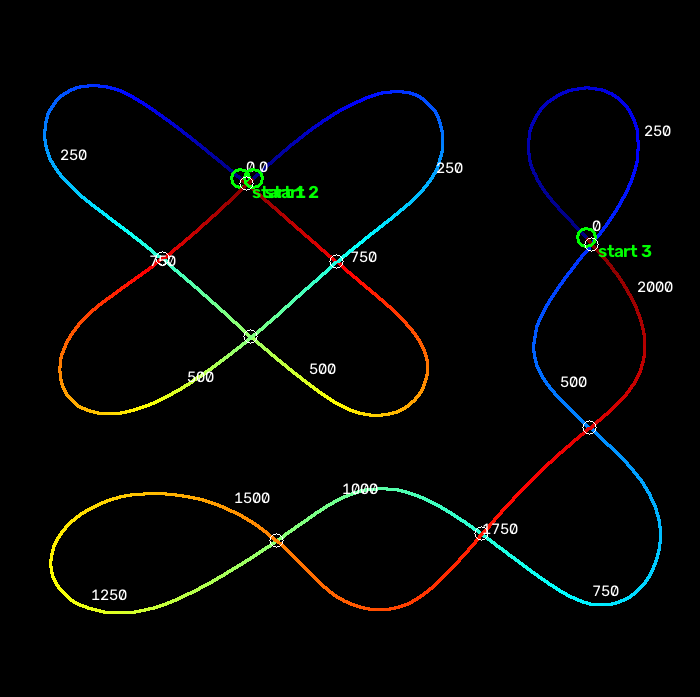
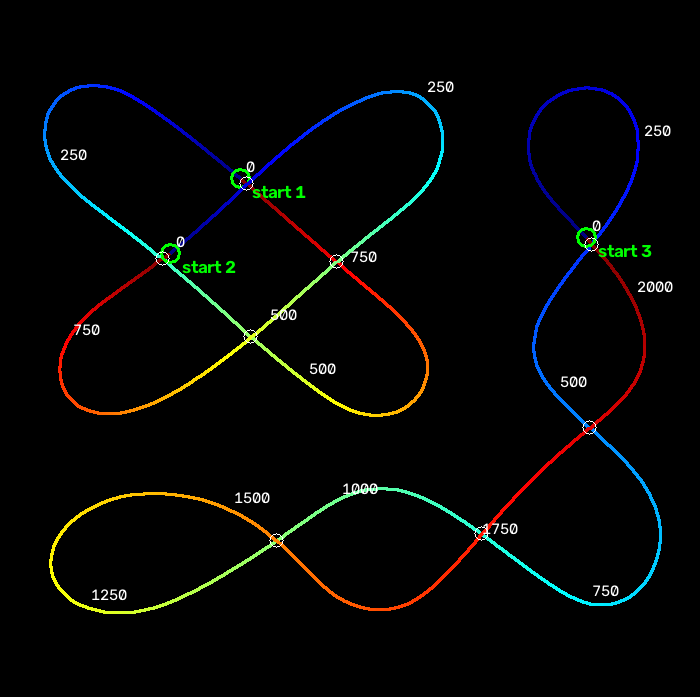
Animnations

diff --git a/src/animate_path.py b/src/animate_path.py
@@ -1,0 +1,112 @@
+import os
+import sys
+import json
+import numpy as np
+import matplotlib
+matplotlib.use("Agg")                                       # NEW 31: draw without a window, we save a GIF
+import matplotlib.pyplot as plt                             # NEW 31
+from matplotlib.animation import FuncAnimation, PillowWriter   # NEW 32: FuncAnimation = "call update once per frame"
+from matplotlib.patches import Circle                       # NEW 33: round shapes for dots and start marker
+
+RES = "results"                                             # NEW 34: same folder as the other scripts
+
+
+def load_path_data(name):                                   # NEW 35
+    """Read the data card made by trace_path.py (for example results/path_k01.json)."""
+    with open(os.path.join(RES, "path_" + name + ".json")) as f:   # NEW 35
+        return json.load(f)                                 # NEW 35
+
+
+def pick_label_spot(sx, sy, tw, th, all_pts, dots, w, h, enough=12):   # NEW 52
+    """Try 24 directions around a start ring, close first, then farther away.
+    Keep a spot where the label box is at least `enough` px from every line and dot. If none, use the best one found."""
+    best = None                                             # NEW 52
+    for reach in (34, 48, 64):                              # NEW 52: close to the ring first, then a bit farther
+        for k in range(24):                                 # NEW 52: 315 (up-right) first, then every 15 degrees round
+            deg = (315 + 15 * k) % 360                      # NEW 52
+            c, s_ = np.cos(np.radians(deg)), np.sin(np.radians(deg))   # NEW 52
+            ax_, ay_ = sx + reach * c, sy + reach * s_      # NEW 52: where the label touches the ring side
+            ha = "right" if c < -0.3 else ("left" if c > 0.3 else "center")   # NEW 52
+            va = "bottom" if s_ < -0.3 else ("top" if s_ > 0.3 else "center")  # NEW 52: y goes DOWN, so "bottom" = text above the point
+            x0 = ax_ - tw if ha == "right" else (ax_ if ha == "left" else ax_ - tw / 2)   # NEW 52: the label box
+            x1 = x0 + tw                                    # NEW 52
+            y0 = ay_ - th if va == "bottom" else (ay_ if va == "top" else ay_ - th / 2)   # NEW 52
+            y1 = y0 + th                                    # NEW 52
+            if x0 < 0 or y0 < 0 or x1 > w or y1 > h:        # NEW 52: box would leave the picture
+                continue                                    # NEW 52
+            dx = np.maximum(np.maximum(x0 - all_pts[:, 0], 0), all_pts[:, 0] - x1)   # NEW 53: distance from every line point to the box
+            dy = np.maximum(np.maximum(y0 - all_pts[:, 1], 0), all_pts[:, 1] - y1)   # NEW 53
+            gap = float(np.hypot(dx, dy).min())             # NEW 53: closest line point
+            for (x, y, r) in dots:                          # NEW 53: dots count too (real size is r - 8)
+                ddx = max(x0 - x, 0, x - x1)                # NEW 53
+                ddy = max(y0 - y, 0, y - y1)                # NEW 53
+                gap = min(gap, float(np.hypot(ddx, ddy)) - (r - 8))   # NEW 53
+            if best is None or gap > best[0]:               # NEW 54: strictly better wins, so ties keep the earlier choice
+                best = (gap, ax_, ay_, ha, va)              # NEW 54
+        if best is not None and best[0] >= enough:          # NEW 54: good enough at this distance, stop here
+            return best                                     # NEW 54
+    if best is None:                                        # NEW 54: nothing fitted at all, use up-right
+        return (0.0, sx + 24, sy - 24, "left", "bottom")    # NEW 54
+    return best                                             # NEW 54
+
+
+def make_animation(data, speed=20, hold=15, verbose=False):   # NEW 36, NEW 55: verbose=True prints the label gaps
+    """speed = points drawn per frame (bigger = faster). hold = frames to pause at the start and the end."""
+    w, h = data["width"], data["height"]                    # NEW 36: picture size
+    strands = [np.array(s) for s in data["strands"]]        # NEW 36: each strand = array of (x, y) points
+
+    fig, ax = plt.subplots(figsize=(6, 6 * h / w), dpi=70)  # NEW 37: empty drawing sheet
+    fig.subplots_adjust(left=0, right=1, top=1, bottom=0)   # NEW 37: no empty border
+    ax.set_xlim(0, w)                                       # NEW 37
+    ax.set_ylim(h, 0)                                       # NEW 37: y goes DOWN in a picture, so flip it
+    ax.set_aspect("equal")                                  # NEW 37: circles stay round
+    ax.axis("off")                                          # NEW 37: no axes, like a clean paper
+    all_pts = np.vstack(strands)                            # NEW 56: every line point, so labels can keep away from them
+    unit = w / (fig.get_figwidth() * fig.dpi)               # NEW 56: picture pixels per screen pixel
+    label_size = 14                                         # NEW 56: font size of the labels
+
+    for x, y, r in data["dots"]:                            # NEW 38: dots are ALWAYS there, from frame 1
+        ax.add_patch(Circle((x, y), r - 8, color="black"))  # NEW 38: r - 8 = the real dot size (r had +8 for the red ring)
+
+    lines = [ax.plot([], [], color="royalblue", lw=2.5, solid_capstyle="round")[0] for _ in strands]   # NEW 39: one empty line per strand
+    starts = []                                             # NEW 40
+    for i, st in enumerate(strands):                        # NEW 40: one green start marker per strand, hidden for now
+        ring = Circle((st[0][0], st[0][1]), 10, fill=False, ec="green", lw=2.5, visible=False)   # NEW 40
+        ax.add_patch(ring)                                  # NEW 40
+        text = str(i + 1) if len(strands) > 1 else "start"   # NEW 57: the label text
+        tw = 0.65 * label_size * fig.dpi / 72 * len(text) * unit   # NEW 57: label width in picture pixels (a guess, a bit generous)
+        th = 1.3 * label_size * fig.dpi / 72 * unit         # NEW 57: label height in picture pixels
+        gap, lx, ly, ha, va = pick_label_spot(st[0][0], st[0][1], tw, th, all_pts, data["dots"], w, h)   # NEW 58: best free spot
+        if verbose:                                         # NEW 58
+            print("   label", text, "| closest line or dot is", round(gap), "px away")   # NEW 58
+        label = ax.text(lx, ly, text, color="green", fontsize=label_size, weight="bold", visible=False, ha=ha, va=va)   # NEW 59
+        starts.append((ring, label))                        # NEW 40
+
+    total = sum(len(s) for s in strands)                    # NEW 41: all points of all strands
+    n_frames = hold + int(np.ceil(total / speed)) + 1 + hold   # NEW 41: pause, draw, pause
+
+    def update(frame):                                      # NEW 42: called once for every frame
+        left = max(0, min((frame - hold) * speed, total))   # NEW 42: points drawn so far (0 during the first pause)
+        for i, st in enumerate(strands):                    # NEW 42: fill strand 1 first, then strand 2 ...
+            k = int(min(left, len(st)))                     # NEW 42: how many points of THIS strand are drawn
+            left -= k                                       # NEW 42
+            lines[i].set_data(st[:k, 0], st[:k, 1])         # NEW 42: draw the first k points
+            show = (i == 0) or (k > 0)                      # NEW 42: strand 1 marker from the start, others when their line begins
+            starts[i][0].set_visible(show)                  # NEW 42
+            starts[i][1].set_visible(show)                  # NEW 42
+        return lines                                        # NEW 42
+
+    anim = FuncAnimation(fig, update, frames=n_frames, blit=False)   # NEW 43
+    return fig, anim, n_frames                              # NEW 43
+
+
+if __name__ == "__main__":                                  # NEW 44: python src/animate_path.py k01   (or no name = all four)
+    names = sys.argv[1:] or ["k01", "k02", "k03", "k04"]    # NEW 44
+    for name in names:                                      # NEW 44
+        data = load_path_data(name)                         # NEW 44
+        fig, anim, n_frames = make_animation(data, speed=15, verbose=True)   # NEW 44, NEW 55
+        out = os.path.join(RES, "anim_" + name + ".gif")    # NEW 44
+        anim.save(out, writer=PillowWriter(fps=25))         # NEW 44: write the GIF
+        plt.close(fig)                                      # NEW 44
+        print(name, "| strands", len(data["strands"]), "| dots", len(data["dots"]),
+              "| frames", n_frames, "| about", round(n_frames / 25), "seconds | saved", out)   # NEW 44

diff --git a/src/trace_path.py b/src/trace_path.py
@@ -5,6 +5,8 @@ import numpy as np
 import networkx as nx                                       # NEW 9
 from build_graph import build_graph, RES                   # NEW 1: reuse the graph code
 
+APART = 40                                                  # NEW 46: two strands must start at least 40 pixels apart
+
 
 def order_road(slab, k):                                   # NEW 2
     """Pixels of road k as an ordered list of (x, y), from one end to the other."""
@@ -152,8 +154,11 @@ def build_strands(G, roads):                               # NEW 18
         used = set()                                       # NEW 18
         while len(used) < len(piece_roads):                # NEW 18: one strand per round
             free = [(rid, e) for rid in piece_roads if rid not in used for e in (0, 1)]   # NEW 18
-            start = min(free, key=lambda re: (roads[re[0]][0][0 if re[1] == 0 else -1][1],
-                                              roads[re[0]][0][0 if re[1] == 0 else -1][0]))   # NEW 18: top-most free road end
+            xy = lambda re: roads[re[0]][0][0 if re[1] == 0 else -1]   # NEW 47: (x, y) of a road end
+            apart = [re for re in free
+                     if all(np.hypot(xy(re)[0] - s0[0][0], xy(re)[1] - s0[0][1]) > APART for s0 in strands)]   # NEW 48: ends far from every start so far
+            pool = apart if apart else free                # NEW 49: if nothing is far enough, use any free end
+            start = min(pool, key=lambda re: (xy(re)[1], xy(re)[0]))   # NEW 18: top-most end among the allowed ones
             rid, e = start                                 # NEW 18
             strand, count, max_turn, prev_dir, first_dir, closed = [], 0, 0.0, None, None, False   # NEW 18
             junction = None                                # NEW 18
@@ -255,8 +260,11 @@ if __name__ == "__main__":                                 # NEW 8: check EVERY 
         print("   STRAND TEST: strands", len(strands), "(pieces in the graph:", nx.number_connected_components(G), ")")   # NEW 20
         for i, (st, (n_roads, closed, turn, in_piece)) in enumerate(zip(strands, report)):   # NEW 20
             print("   strand", i + 1, "| points", len(st), "| roads", n_roads, "| closed loop", closed,
-                  "| sharpest turn at a crossing", round(turn, 1), "deg")   # NEW 20
+                  "| sharpest turn at a crossing", round(turn, 1), "deg", "| starts at", st[0])   # NEW 50: show where it starts
         print("   roads used in all strands", sum(r[0] for r in report), "of", G.number_of_edges())   # NEW 20
+        gaps = [float(np.hypot(a[0][0] - b[0][0], a[0][1] - b[0][1])) for i, a in enumerate(strands) for b in strands[i + 1:]]   # NEW 51: distance between every pair of starts
+        if gaps:                                           # NEW 51
+            print("   START GAP TEST: closest two starts are", round(min(gaps)), "px apart (need more than", APART, ")")   # NEW 51
 
         marks = [d["pos"] for n, d in G.nodes(data=True) if n.startswith("J")]   # NEW 21: crossing centres
         cv2.imwrite(os.path.join(RES, "path_" + name), draw_strokes(strands, slab.shape, marks))   # NEW 21: save the picture

diff --git a/docs/failures.md b/docs/failures.md
@@ -11,3 +11,4 @@ Add a row only when something really breaks. This is the answer bank for questio
 | 4 | all | Dots (setup) | `ModuleNotFoundError: No module named 'skimage'`. scikit-image was missing in the `.venv` | `pip install scikit-image`, then reran `detect_dots.py`. scikit-image is also in `requirements.txt` |
 | 5 | k01 to k04 | Path | First path (Eulerian circuit) used every road exactly once and the counts were correct, but it was hard to copy by hand. At a crossing it left by any unused road instead of going straight, and crossings were not marked. Found when Teju hand-drew path_k01 and compared it with the original | Straight-through rule: at each crossing, pair the road ends that point most opposite (`pair_ends`) and walk the pairs to get closed strands. White circle on every crossing. Result: all strands closed, sharpest turn 2.3 to 6.3 degrees, and Teju traced all 4 pictures by hand with ease |
 | 6 | k01 to k04 | Path | Old stroke had 13 to 20 pixel gaps where one road was glued to the next, because road pixels stop short of the junction centre | `bridge()` draws one-pixel steps from the road end to the junction centre and on to the next road, so every crossing is an exact point |
+| 7 | k03 | Path / animation | The two X strands both pass through all 4 crossings, and the start rule (top-most free road end) chose the same top crossing for both. Starts were (240,178) and (253,178), only 13 pixels apart, so the green rings and the labels 1 and 2 drew on top of each other in the animation | Strand starts must now be more than 40 pixels (`APART = 40`) from every earlier start, else any free end is used. Strand 2 now starts at the left crossing (170,253), 103 pixels from strand 1. Shape of the drawing is unchanged, because a closed strand can start at any crossing on it |
